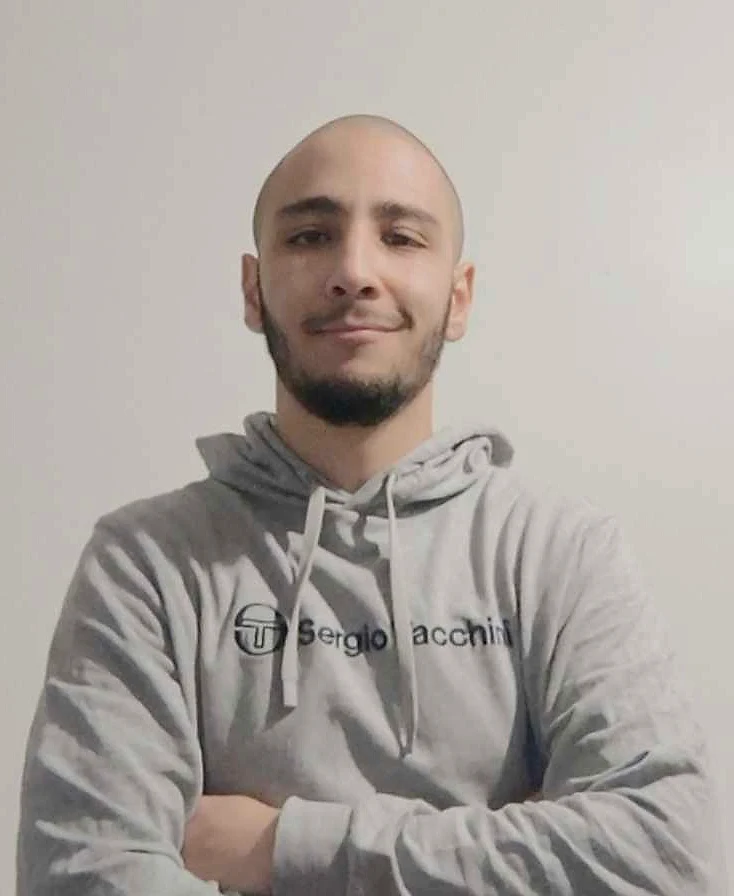
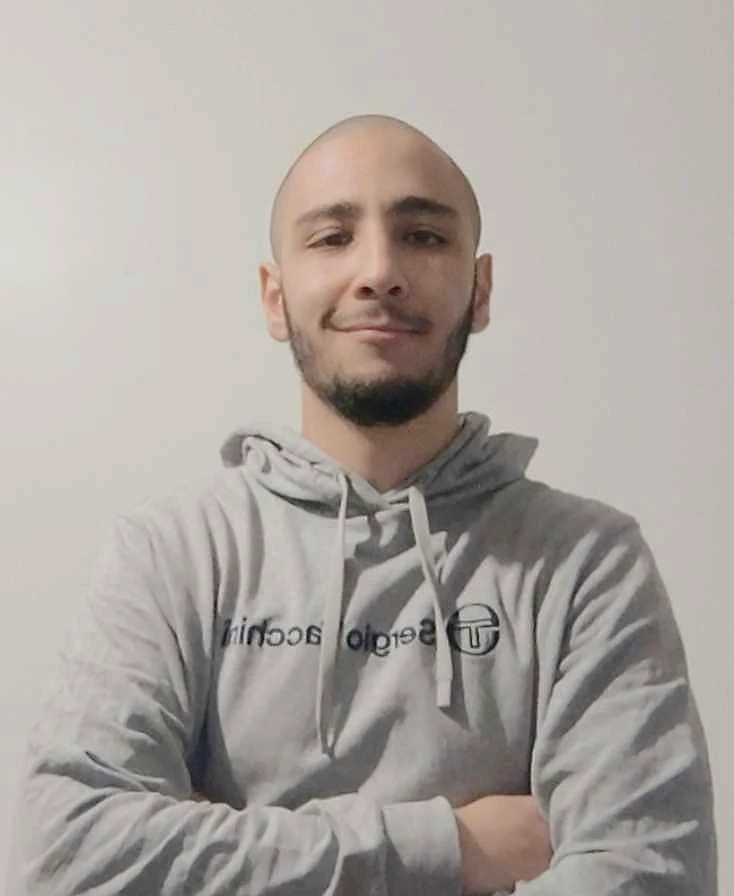
Photo de profil dans le bon sens

diff --git a/index.html b/index.html
@@ -97,7 +97,7 @@
               <div class="avatar-ring-outer"></div>
               <div class="avatar-ring-inner"></div>
               <div class="avatar-card">
-                <img src="assets/photo-ahmed.webp?v=2" alt="Photo d'Ahmed MESRI" class="avatar-img" width="734" height="896">
+                <img src="assets/photo-ahmed.webp?v=3" alt="Photo d'Ahmed MESRI" class="avatar-img" width="734" height="896">
               </div>
             </div>
           </div>
